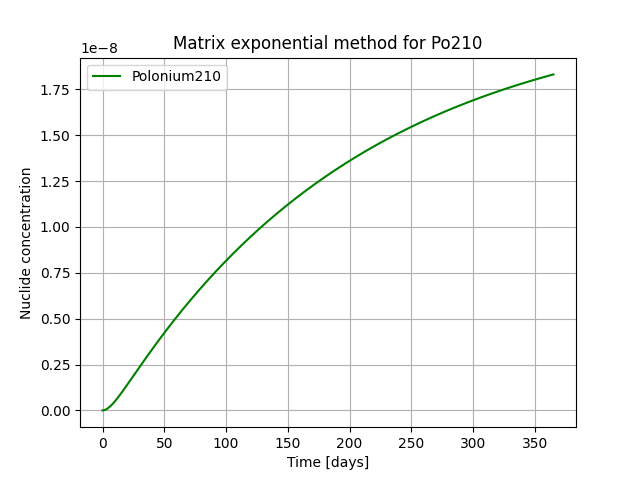
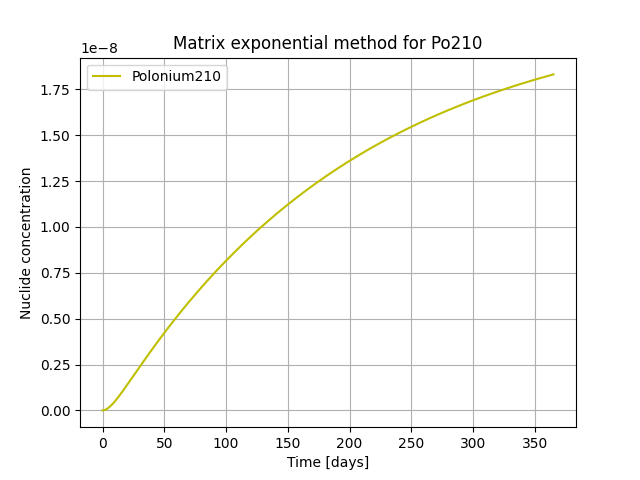
Runge-Kutta method has been implemented and a error plot shows discrepancy between the two methods.

diff --git a/tests/errors.py b/tests/errors.py
@@ -1,0 +1,72 @@
+from runge import u
+from main import main
+from Config import Par
+import matplotlib.pyplot as plt
+import numpy as np
+
+u0 = u[:, 0]
+u1 = u[:, 1]
+u2 = u[:, 2]
+
+
+mtx_expm0 = main(Par.total_time, Par.time_step)[:, 0]
+mtx_expm1 = main(Par.total_time, Par.time_step)[:, 1]
+mtx_expm2 = main(Par.total_time, Par.time_step)[:, 2]
+
+
+err0 = mtx_expm0-u0
+err1 = mtx_expm1-u1
+err2 = mtx_expm2-u2
+print(err0)
+print(err1)
+print(err2)
+
+
+def plot_error_functions():
+    fig0 = plt.figure()
+    plt.plot(err0, 'k', label='Difference between matrix and Runge-Kutta method for Bi-209')
+    plt.xlabel('Time [hours]')
+    plt.ylabel('Error function Bi-209')
+    plt.legend(loc=0)
+    plt.grid(True)
+    plt.show()
+
+    fig1 = plt.figure()
+    plt.plot(err1, 'k', label='Difference between matrix and Runge-Kutta method for Bi-210')
+    plt.xlabel('Time [hours]')
+    plt.ylabel('Error function Bi-210')
+    plt.legend(loc=9)
+    plt.grid(True)
+    plt.show()
+
+    fig2 = plt.figure()
+    plt.plot(err2, 'k', label='Difference between matrix and Runge-Kutta method for Po-210')
+    plt.xlabel('Time [hours]')
+    plt.ylabel('Error function Po-210')
+    plt.legend(loc=8)
+    plt.grid(True)
+    plt.show()
+
+    fig3 = plt.figure()
+    x = np.arange(0, len(err0))
+    plt.scatter(x, err0, c='blue')
+    plt.grid(True)
+    plt.show()
+
+    fig4 = plt.figure()
+    x = np.arange(0, len(err1))
+    plt.scatter(x, err1, c='green')
+    plt.grid(True)
+    plt.show()
+
+    fig5 = plt.figure()
+    x = np.arange(0, len(err2))
+    plt.scatter(x, err2, c='purple')
+    plt.grid(True)
+    plt.show()
+
+    return [fig0, fig1, fig2, fig3, fig4, fig5]
+
+
+if __name__ == '__main__':
+    plot_error_functions()

diff --git a/tests/rk4_plots.py b/tests/rk4_plots.py
@@ -1,0 +1,32 @@
+import matplotlib.pyplot as plt
+
+
+def plot_rk(Polonium_problem):
+    fig0 = plt.figure()
+    plt.title('Bi-209')
+    plt.plot(Polonium_problem[:, 0], 'r', label='Bismuth209')
+    plt.xlabel('Time [days]')
+    plt.ylabel('Bi209 concentration')
+    plt.legend()
+    plt.grid(True)
+    plt.show()
+
+    fig1 = plt.figure()
+    plt.title('Bi-210')
+    plt.plot(Polonium_problem[:, 1], 'b', label='Bismuth210')
+    plt.xlabel('Time [days]')
+    plt.ylabel('Bi210 concentration')
+    plt.legend()
+    plt.grid(True)
+    plt.show()
+
+    fig2 = plt.figure()
+    plt.title('Po-210')
+    plt.plot(Polonium_problem[:, 2], 'g', label='Polonium210')
+    plt.xlabel('Time [days]')
+    plt.ylabel('Po210 concentration')
+    plt.legend()
+    plt.grid(True)
+    plt.show()
+
+    return [fig0, fig1, fig2]

diff --git a/tests/runge.py b/tests/runge.py
@@ -1,0 +1,32 @@
+from main import *
+from rk4_plots import plot_rk
+
+
+def ode_system(u):
+    return np.array(
+        [-Decay.dBi209 * u[0], Decay.dBi209 * u[0] - Decay.dBi210 * u[1], Decay.dBi210 * u[1] - Decay.dPo210 * u[2]])
+
+
+dt = 86400
+time = 365
+
+
+def rk_method(func, u0, dt, time):
+    u = np.zeros((time+1, len(u0)))
+
+    u[0] = u0
+    for i in range(time):
+        k1 = dt*func(u[i])
+        k2 = dt*func(u[i]+k1/2)
+        k3 = dt * func(u[i] + k2 / 2)
+        k4 = dt*func(u[i]+k3)
+        u[i+1] = u[i] + (k1+2*k2+2*k3+k4)/6
+    return u
+
+
+u0 = [Init.Bi209_0, Init.Bi210_0, Init.Po210_0]
+u = rk_method(ode_system, u0, dt, time)
+
+if __name__ == '__main__':
+    Polonium_problem = rk_method(ode_system, u0, dt, time)
+    plot_rk(Polonium_problem)

diff --git a/matrix_exp_plots.py b/matrix_exp_plots.py
@@ -34,7 +34,7 @@ def plot(Polonium_problem):
     plt.title('Matrix exponential method for Po210')
     plt.xlabel('Time [days]')
     plt.ylabel('Nuclide concentration')
-    plt.plot(Polonium_problem[:, 2], 'g', label='Polonium210')
+    plt.plot(Polonium_problem[:, 2], 'y', label='Polonium210')
     plt.legend()
     plt.grid(True)
 

diff --git a/main.py b/main.py
@@ -1,7 +1,8 @@
 import numpy as np
 from scipy.linalg import expm
 from Config import *
-from plots import plot
+from matrix_exp_plots import plot
+
 
 # Creating coefficient's matrix
 A_matrix = np.array([[-Decay.dBi209, 0, 0],
